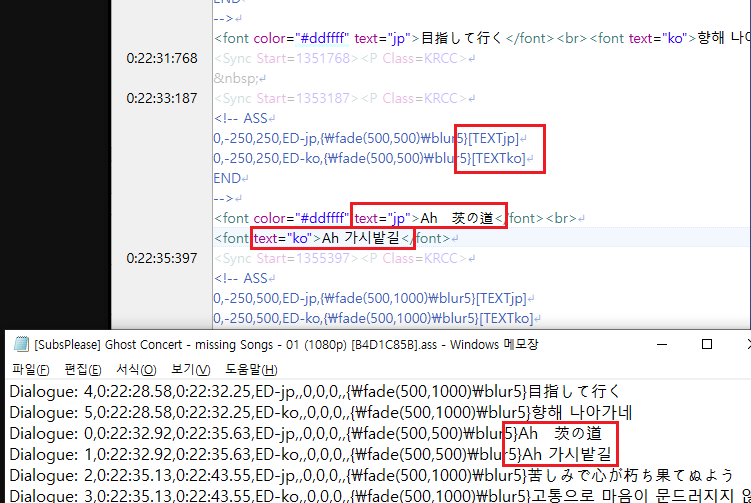
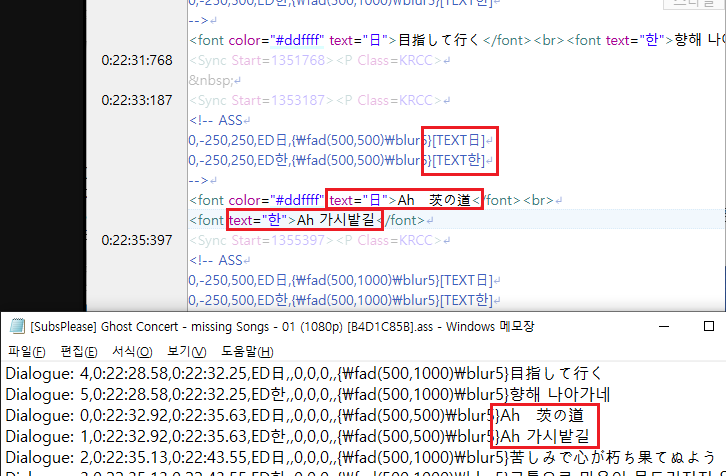
Jamaker 도움말 수정

Changed region(s): [[0.0, 0.0, 1.0, 1.0], [0.9091, 0.0, 1.0, 0.0294]]

diff --git a/Jamaker/view/help/aboutAss.html b/Jamaker/view/help/aboutAss.html
@@ -110,7 +110,7 @@ hr {
 		<img src="img/ass11.png" title="줄 연결 기능 활용 이미지" /><br />
 		<br />
 		그 밖에 자체 문법으로 \fadein, \fadeout, \dpos, \dmove 태그가 있습니다.<br />
-		\fadein, \fadeout은 해당 싱크의 길이에 맞춰 \fad([FADE_LENGTH], 0), \fad(0, [FADE_LENGTH])로 변환해 출력합니다.<br />
+		\fadein, \fadeout은 해당 싱크의 길이에 맞춰 \fad(길이,0), \fad(0,길이)로 변환해 출력합니다.<br />
 		\dpos, \dmove 태그는 자막을 \org, \frx, \fry, frz 태그로 왜곡시켜 좌표를 맞추기 어려운 경우<br />
 		해당 태그에 디스플레이할 좌표를 넣으면, \pos, \move 좌표를 역산해 출력합니다.<br />
 		<img src="img/ass12.png" title="dpos 태그 활용 이미지" /><br />